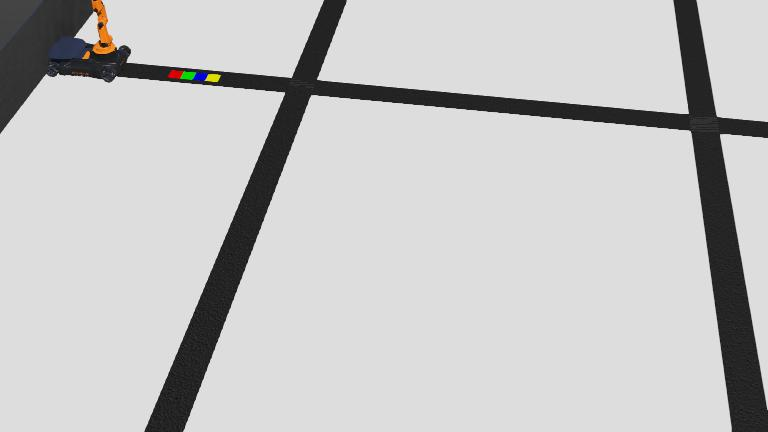
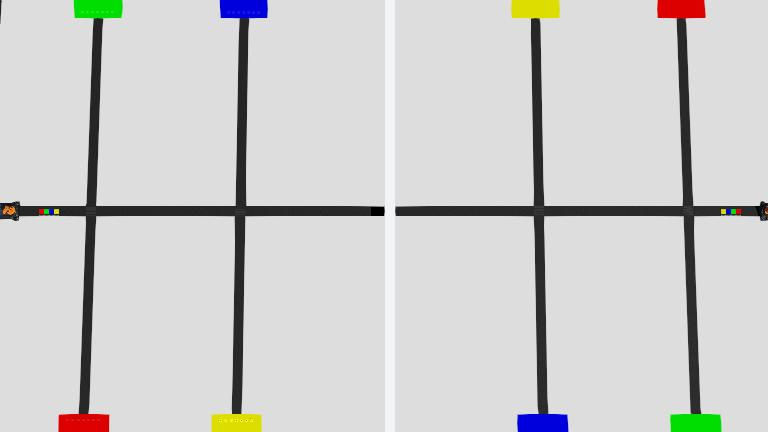
v1 of project two robot pick and place from wall to area + board photo

Changed region(s): [[0.0, 0.0, 1.0, 1.0]]

diff --git a/controllers/project_cont_test_youbot/project_cont_test_youbot.py b/controllers/project_cont_test_youbot/project_cont_test_youbot.py
@@ -32,7 +32,8 @@ class RobotController(Supervisor):
     def __init__(self):
         Supervisor.__init__(self)
         self.timestep = int(self.getBasicTimeStep())
-        
+        self.robot_name = self.getName()
+        print(self.robot_name)
         self.color = list()
         self.color_queue = queue.Queue(4)
         self.rotate_err = 10
@@ -413,7 +414,7 @@ class RobotController(Supervisor):
         else:
             self.turn_angle(abs(angle), clockwise=False,velocity=4)
         self.current_position = target_position
-        self.move_distance_PID(distance,4)
+        self.move_distance_PID(distance,7)
         # return distance, angle
     
     def go_to_red_area(self):
@@ -487,27 +488,99 @@ class RobotController(Supervisor):
         # print('pick')
         self.armMotors[1].setPosition(0)    # Lift arm.
         self.armMotors[2].setPosition(-0.5)
+        self.armMotors[3].setPosition(-0.2)
+        
+        # print('after pick')
+        # Wait until the arm is lifted.
+        self.step(100 * self.timestep)
+        
+    def pick_up_r2(self,ang = 0):
+        self.armMotors[1].setPosition(-1.13)
+        self.armMotors[3].setPosition(-0.5)
+        self.armMotors[2].setPosition(-1.15)
+        self.armMotors[4].setPosition(ang)
+        self.finger1.setPosition(self.fingerMaxPosition)
+        self.finger2.setPosition(self.fingerMaxPosition)
+
+        while self.step(self.timestep) != -1:
+            if abs(self.armPositionSensors[3].getValue() - (-0.5)) < 0.01:
+                
+            # Motion completed.
+                break
+        self.finger1.setPosition(0.001)     # Close gripper.
+        self.finger2.setPosition(0.001)
+        self.step(50 * self.timestep)    # Wait until the gripper is closed.
+        # print('pick')
+        self.armMotors[1].setPosition(0)    # Lift arm.
+        self.armMotors[2].setPosition(-0.5)
+        self.armMotors[3].setPosition(-0.2)
+        
         # print('after pick')
         # Wait until the arm is lifted.
         self.step(100 * self.timestep)
         
         
     def hand_up(self):
-        self.finger1.setPosition(self.fingerMaxPosition)
-        self.finger2.setPosition(self.fingerMaxPosition)
         self.armMotors[0].setPosition(0)
         self.armMotors[1].setPosition(0)
         self.armMotors[2].setPosition(0)
         self.armMotors[3].setPosition(0)
         self.armMotors[4].setPosition(0)
+        self.finger1.setPosition(self.fingerMaxPosition)
+        self.finger2.setPosition(self.fingerMaxPosition)
+        self.step(50 * self.timestep)
     
+    def open_grippers(self):
+        self.finger1.setPosition(self.fingerMaxPosition)
+        self.finger2.setPosition(self.fingerMaxPosition)
+        self.step(100 * self.timestep)
+        
+    def close_grippers(self):
+        self.finger1.setPosition(0.001)
+        self.finger2.setPosition(0.001)
+        self.step(50 * self.timestep)
+    
+    def place_on_wall(self):
+        self.armMotors[2].setPosition(-0.2)
+        self.armMotors[3].setPosition(-1.6)
+        self.step(150 * self.timestep)
+        self.open_grippers()
+        
+    def place_on_area(self,ang = 0):
+        self.armMotors[1].setPosition(-1.13)
+        self.armMotors[3].setPosition(-0.5)
+        self.armMotors[2].setPosition(-1)
+        self.armMotors[4].setPosition(ang)
+        self.step(200 * self.timestep)
+        self.finger1.setPosition(self.fingerMaxPosition)
+        self.finger2.setPosition(self.fingerMaxPosition)
+        self.hand_up()
+        
+    def wait(self,time = 2500):
+        self.step(time * self.timestep)
+        
+    def pick_From_wall(self):
+        self.finger1.setPosition(self.fingerMaxPosition)
+        self.finger2.setPosition(self.fingerMaxPosition)
+        # self.armMotors[1].setPosition(-0.1)
+        self.armMotors[2].setPosition(-0.1)
+        self.armMotors[3].setPosition(-1.5)
+        self.step(300 * self.timestep)
+        self.close_grippers()
+        
     def halt(self):
         self.front_right_wheel.setVelocity(0)
         self.front_left_wheel.setVelocity(0)
         self.back_right_wheel.setVelocity(0)
         self.back_left_wheel.setVelocity(0)
         
-        
+    def drop(self):
+        self.armMotors[0].setPosition(-2.9)
+        self.armMotors[1].setPosition(0)
+        self.armMotors[2].setPosition(-1)
+        self.armMotors[3].setPosition(-1)
+        self.armMotors[2].setPosition(-1.7)
+        self.armMotors[4].setPosition(2.9)
         
     def pick_up_cubes(self):
         while True:
@@ -564,30 +637,60 @@ class RobotController(Supervisor):
         return max(move_distance, 0)
     
     
-    def process_colors(self):
+    def process_colors_r1(self):
         while not self.color_queue.empty():  
             color = self.color_queue.get()  
             if color == 'red':
                 self.go_to_red_area()
                 self.pick_up_cubes()
                 self.go_to_wall()
+                self.place_on_wall()
                 self.hand_up()
             elif color == 'green':
                 self.go_to_green_area()
                 self.pick_up_cubes()
                 self.go_to_wall()
+                self.place_on_wall()
                 self.hand_up()
             elif color == 'blue':
                 self.go_to_blue_area()
                 self.pick_up_cubes()
                 self.go_to_wall()
+                self.place_on_wall()
                 self.hand_up()
             elif color == 'yellow':
                 self.go_to_yellow_area()
                 self.pick_up_cubes()
                 self.go_to_wall()
+                self.place_on_wall()
                 self.hand_up()
     
+    def process_colors_r2(self):
+        while not self.color_queue.empty():  
+            color = self.color_queue.get()  
+            if color == 'red':
+                self.go_to_wall()
+                self.wait()
+                self.pick_From_wall()
+                self.go_to_red_area()
+                self.place_on_area()
+            elif color == 'green':
+                self.go_to_wall()
+                self.wait(1000)
+                self.pick_From_wall()
+                self.go_to_green_area()
+                self.place_on_area()
+            elif color == 'blue':
+                self.go_to_wall()
+                self.pick_From_wall()
+                self.go_to_blue_area()
+                self.place_on_area()
+            elif color == 'yellow':
+                self.go_to_wall()
+                self.pick_From_wall()
+                self.go_to_yellow_area()
+                self.place_on_area()
+                
     def loop(self):
 
         # self.pick_up_cubes()
@@ -596,14 +699,11 @@ class RobotController(Supervisor):
             if not self.read_array:
                 self.read_array_color()            
             else:
-                self.go_to_red_area()
-                self.pick_up_cubes()
-                self.go_to_wall()
-                self.hand_up()
-                self.go_to_red_area()
-                self.pick_up_cubes()
-                self.go_to_wall()
-                self.hand_up()
+                if self.robot_name == 'youBot(2)':
+                    self.process_colors_r2()
+                else:    
+                    self.process_colors_r1()
+                break                
                 # self.process_colors()
             #     self.go_to_red_area()
             #     self.halt()
